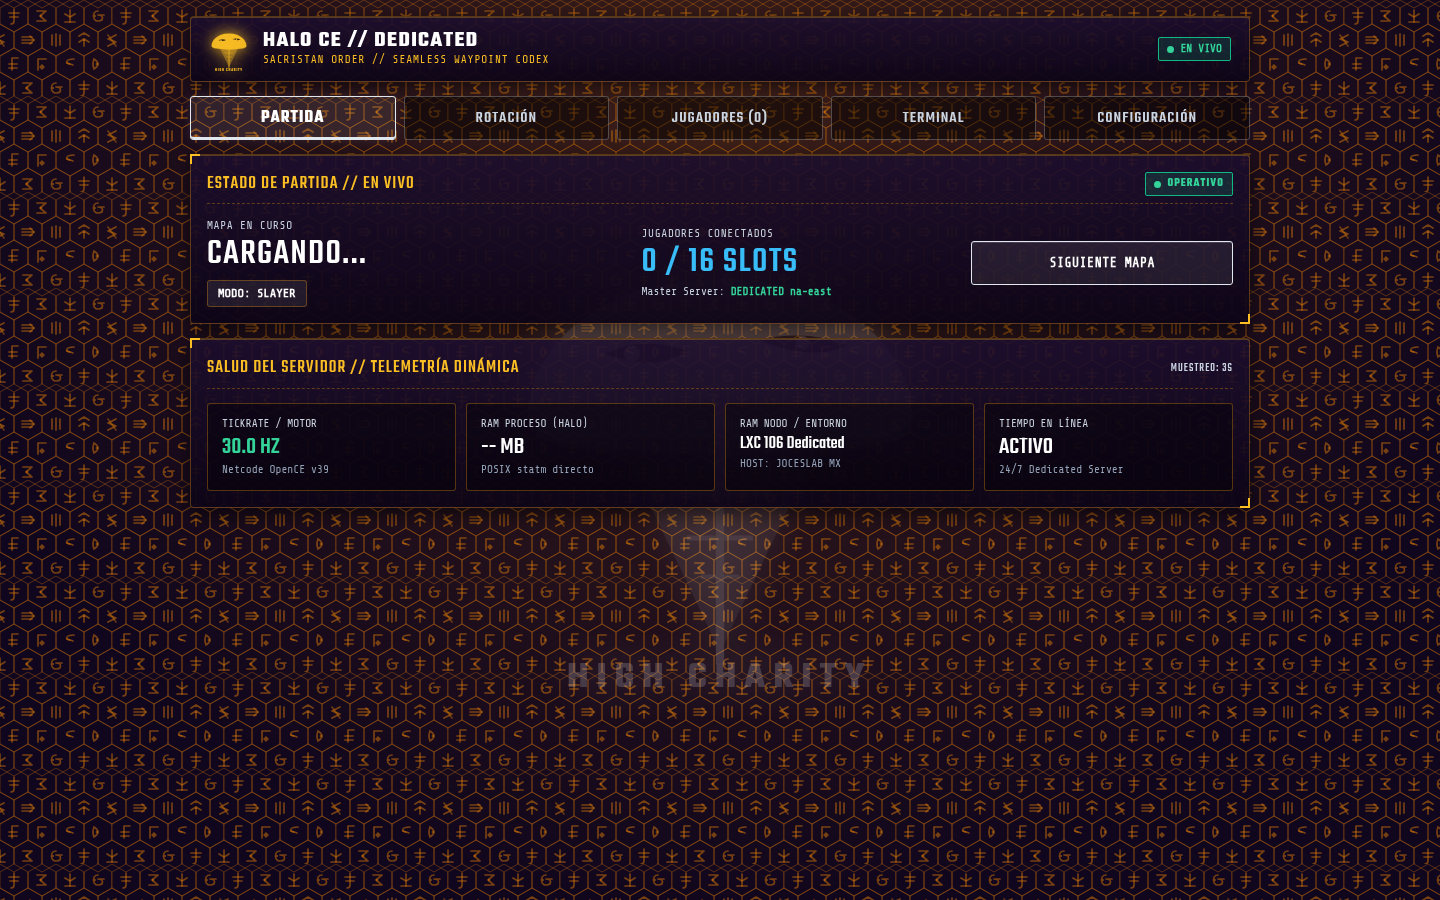
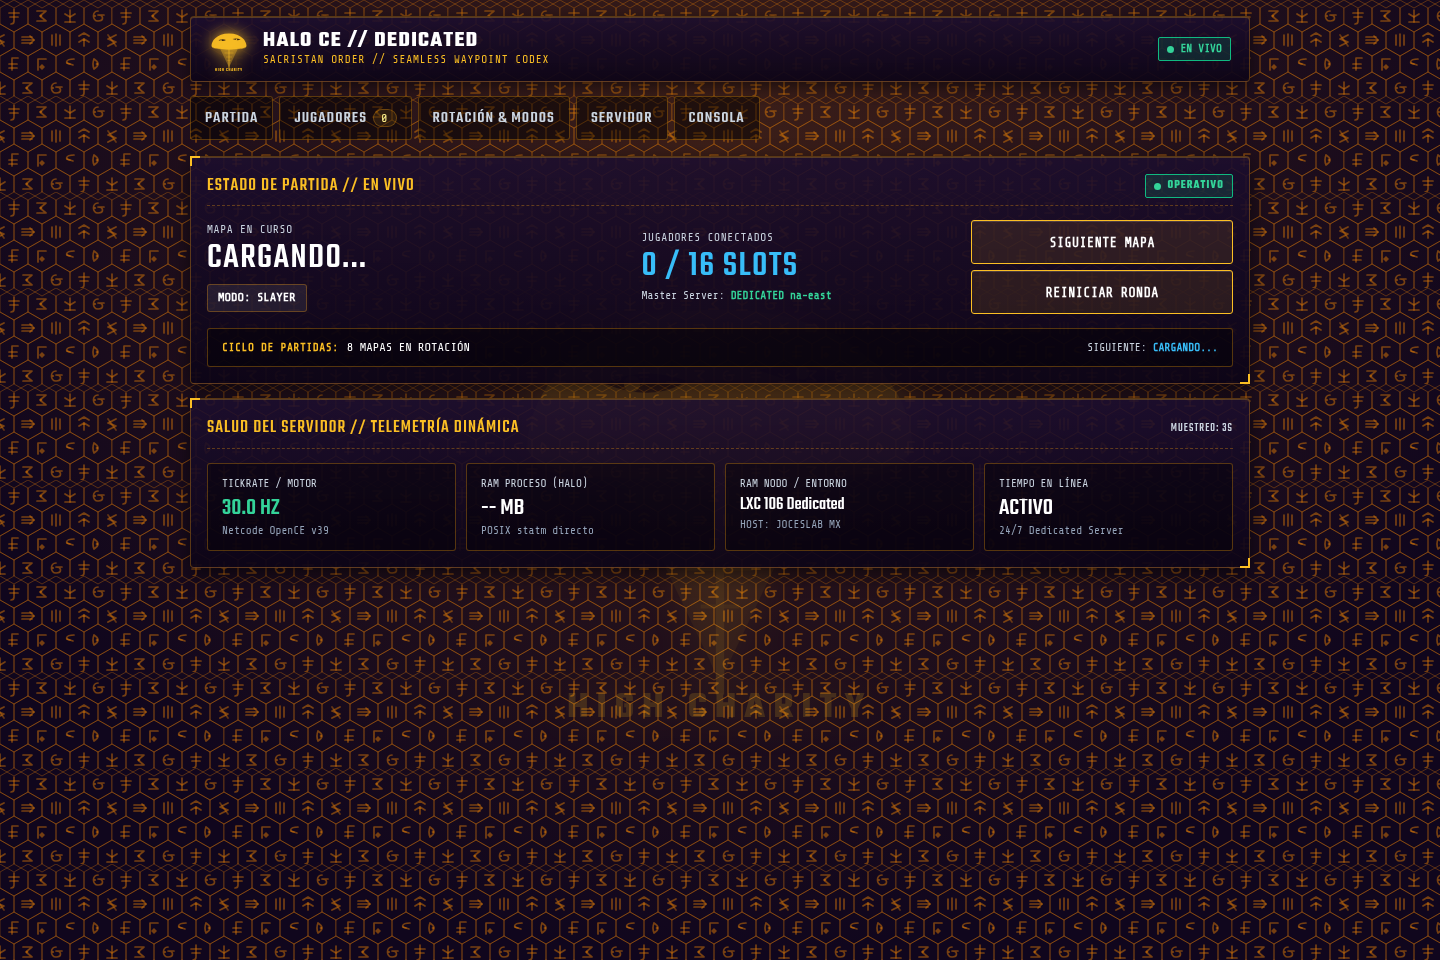
docs: update screenshots and documentation for 5 unified modules and master suite

diff --git a/README.md b/README.md
@@ -64,19 +64,22 @@ The dedicated server includes a native, zero-dependency embedded Tactical Web Da
   <img src="docs/screenshots/dashboard_status.png" alt="Halo CE Dedicated Server Web Dashboard - Live Match & Health" width="850">
 </p>
 
-### Key Dashboard Modules (6 Tactical Tabs)
-- **Partida (Live Match & Health):** Instant visibility of active map, gametype, and connected slots (`0 / 16`), backed by grouped telemetry (tickrate 30 Hz, POSIX native process RAM from `/proc/self/statm`, node RAM, and continuous uptime) with quick actions (`Next Map`, `Restart`, `Stop Game`).
-- **Jugadores (Player Administration):** Connected player table with real-time ping, score, team assignment, and moderation controls (`Kick`, `Ban`, `Mute`, `Team Swap`), plus IP blacklist controls.
-- **Rotación (Rotation & Mapcycle):** Playlist cycle manager with sequence/shuffle modes, in-lobby chat map voting toggle (`network.map_voting`), match duration and lobby countdown presets.
-- **Servidor (Server Operations):** Live configuration of server name, UDP port, public browser listing, region (`server.region`), chat/name filtering (`server.chat_filter`), AFK timeout, and P2P map sharing.
-- **CO-OP (Massive Campaign):** Dedicated campaign co-op parameters: enemy difficulty scaling (`network.coop_enemies_mode`), pickup replenishing (`network.coop_pickups`), and friendly fire rules (`network.coop_friendly_fire`).
-- **Consola (Terminal, Logs & Themes):** In-browser interactive HaloScript command terminal, live `debug.txt` real-time viewer, and tactical theme switcher with 6 authentic identities (Mjolnir Titanium, ONI Black Ops, Command Amber, Fleet Plasma, Sacristan Gold Codex, Zealot Cyan Codex).
+### Key Dashboard Modules (5 Unified Tactical Tabs)
+- **Partida (Live Match & Health Telemetry):** Instant visibility of active map, gametype, connected slots (up to 128), and cycle telemetry backed by grouped metrics (30 Hz tickrate, native process RSS RAM from `/proc/self/statm`, node environment, and continuous uptime) with round controls (`Next Map`, `Restart`).
+- **Jugadores (Player Moderation & Timed Bans):** Live player roster with ping, team, score, HWID, and one-click moderation (`Kick`, `Ban`, `IP Veto`), alongside the blacklist inspector displaying strike levels and real-time expiration countdowns.
+- **Rotación & Modos (Unified Rotation, Match Rules & Co-Op):** Interactive mapcycle with optimistic drag/order controls (`▲` / `▼`), immediate match launch (`INICIAR PARTIDA AHORA`), dynamic weapon sets, vehicle loadouts, friendly fire rules, 20-kill limits, and complete Campaign Co-Op scaling.
+- **Servidor (Server Operations & Master Registration):** Hot-reloaded server name, UDP ports, region (`server.region`), AFK timeouts, P2P map distribution, theme switcher, and the official OpenCE Master Server handshake suite (`Public Key` & `Proof of Key` generator).
+- **Consola (Terminal, P2P Chat & Dynamic Logs):** In-browser HaloScript terminal with live command feedback (`help`, `sv_map`), real-time in-game text chat broadcaster (`network_chat_broadcast`), and dynamic `debug.txt` stream with freeze/resume controls.
 
 For the complete REST API specification, JSON payloads, and HTTPS reverse proxy setup, see [docs/web-dashboard.md](docs/web-dashboard.md).
 
 <p align="center">
-  <img src="docs/screenshots/dashboard_rotation.png" alt="Rotation Manager" width="420">&nbsp;
-  <img src="docs/screenshots/dashboard_settings.png" alt="Settings & Theme Selector" width="420">
+  <img src="docs/screenshots/dashboard_rotation.png" alt="Rotation & Gamemodes Suite" width="420">&nbsp;
+  <img src="docs/screenshots/dashboard_settings.png" alt="Server Operations & Master Registration" width="420">
+</p>
+<p align="center">
+  <img src="docs/screenshots/dashboard_players.png" alt="Live Players & Timed Bans" width="420">&nbsp;
+  <img src="docs/screenshots/dashboard_console.png" alt="HaloScript Console & Log Stream" width="420">
 </p>
 <p align="center">
   <img src="docs/screenshots/dashboard_covenant.png" alt="Covenant Sacristan Gold Theme" width="850">
